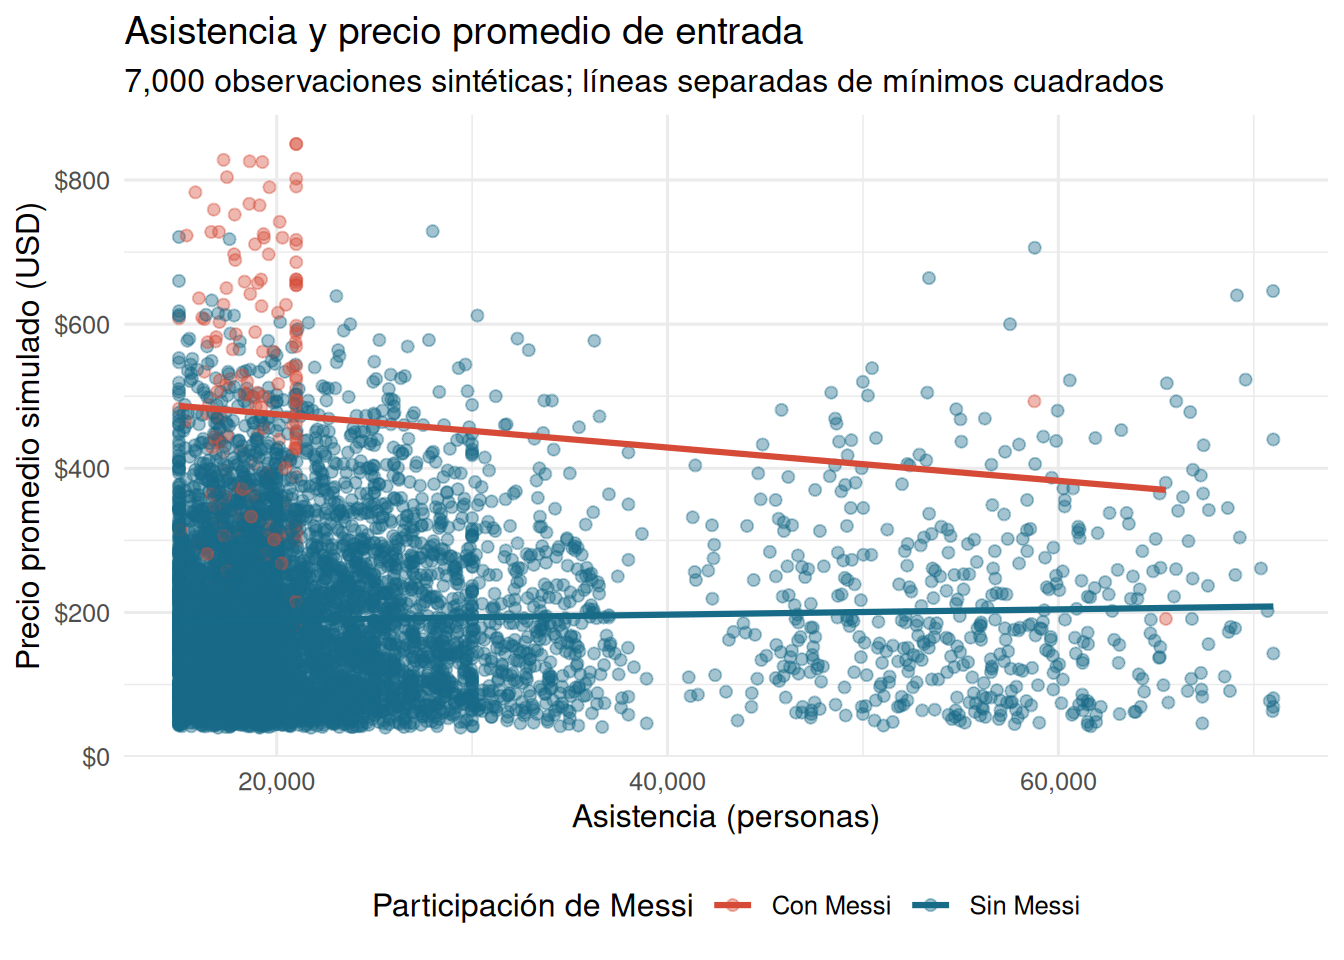
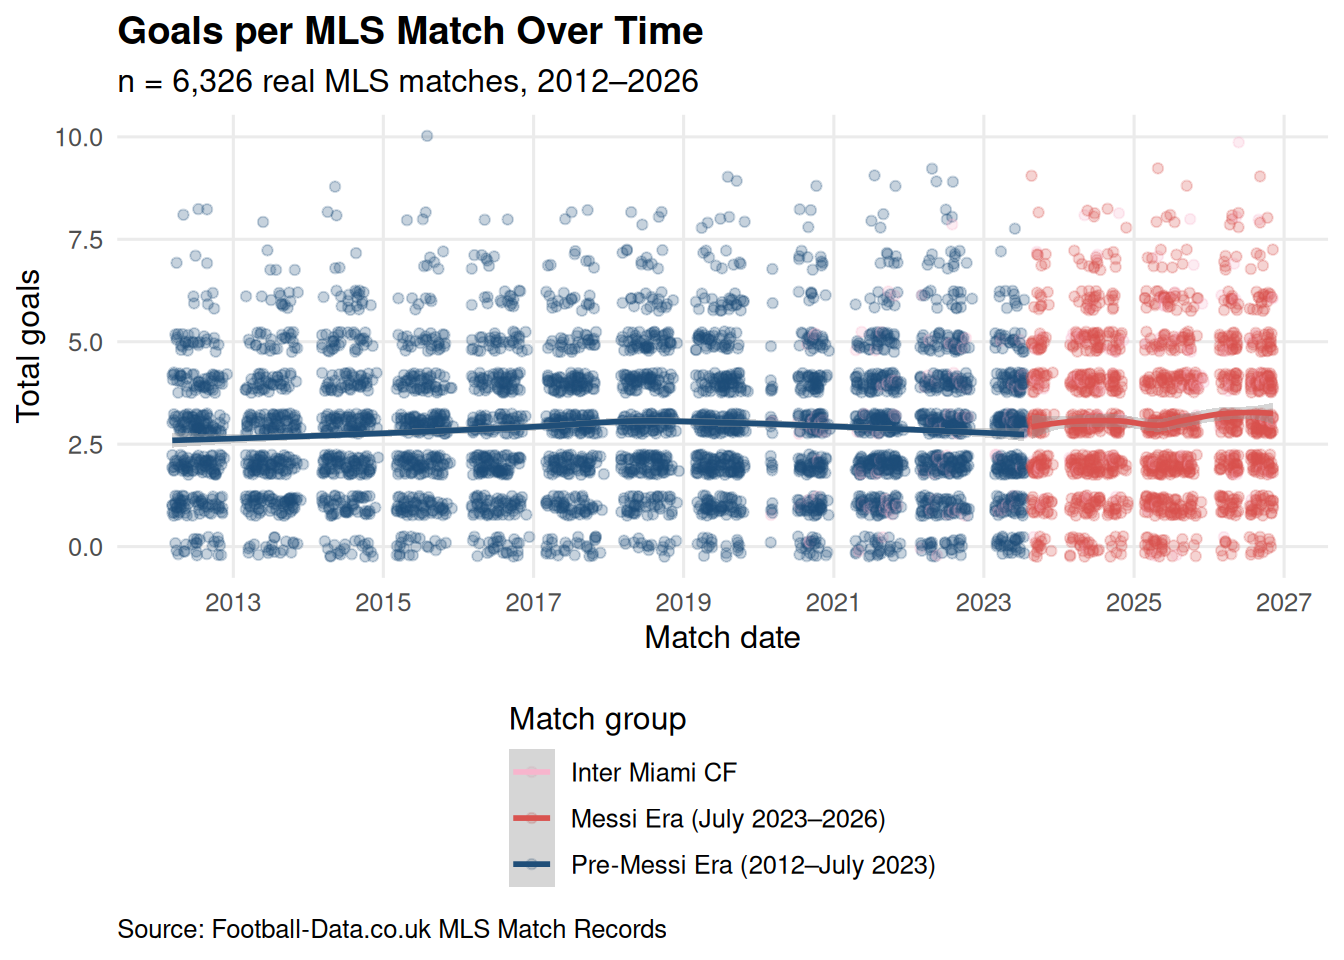
Built site for gh-pages

diff --git a/index.html b/index.html
@@ -6,9 +6,8 @@
 
 <meta name="viewport" content="width=device-width, initial-scale=1.0, user-scalable=yes">
 
-<meta name="author" content="Ángel Emilio Frías Arias">
 
-<title>. - MLS Transformation &amp; The Messi Impact (2023-2026)</title>
+<title>MLS Match Analysis - MLS Match Scoring Before and After Messi</title>
 <style>
 code{white-space: pre-wrap;}
 span.smallcaps{font-variant: small-caps;}
@@ -80,7 +79,7 @@ ul.task-list li input[type="checkbox"] {
       <div class="navbar-container container-fluid">
       <div class="navbar-brand-container mx-auto">
     <a class="navbar-brand" href="./index.html">
-    <span class="navbar-title">.</span>
+    <span class="navbar-title">MLS Match Analysis</span>
     </a>
   </div>
             <div id="quarto-search" class="" title="Search"></div>
@@ -109,39 +108,20 @@ ul.task-list li input[type="checkbox"] {
 <!-- sidebar -->
 <!-- margin-sidebar -->
     <div id="quarto-margin-sidebar" class="sidebar margin-sidebar">
-        <nav id="TOC" role="doc-toc" class="toc-active">
-    <h2 id="toc-title">On this page</h2>
-   
-  <ul>
-  <li><a href="#executive-summary" id="toc-executive-summary" class="nav-link active" data-scroll-target="#executive-summary">Executive summary</a></li>
-  <li><a href="#data-and-method" id="toc-data-and-method" class="nav-link" data-scroll-target="#data-and-method">Data and method</a></li>
-  <li><a href="#gráfico-1-asistencia-y-precio-de-entrada" id="toc-gráfico-1-asistencia-y-precio-de-entrada" class="nav-link" data-scroll-target="#gráfico-1-asistencia-y-precio-de-entrada">Gráfico 1: Asistencia y precio de entrada</a></li>
-  <li><a href="#gráfico-2-distribución-de-asistencia-por-temporada" id="toc-gráfico-2-distribución-de-asistencia-por-temporada" class="nav-link" data-scroll-target="#gráfico-2-distribución-de-asistencia-por-temporada">Gráfico 2: Distribución de asistencia por temporada</a></li>
-  <li><a href="#gráfico-3-recintos-capacidad-y-asistencia" id="toc-gráfico-3-recintos-capacidad-y-asistencia" class="nav-link" data-scroll-target="#gráfico-3-recintos-capacidad-y-asistencia">Gráfico 3: Recintos, capacidad y asistencia</a></li>
-  <li><a href="#gráfico-4-audiencia-y-alcance-de-season-pass" id="toc-gráfico-4-audiencia-y-alcance-de-season-pass" class="nav-link" data-scroll-target="#gráfico-4-audiencia-y-alcance-de-season-pass">Gráfico 4: Audiencia y alcance de Season Pass</a></li>
-  <li><a href="#synthesis-and-limitations" id="toc-synthesis-and-limitations" class="nav-link" data-scroll-target="#synthesis-and-limitations">Synthesis and limitations</a></li>
-  <li><a href="#selected-references" id="toc-selected-references" class="nav-link" data-scroll-target="#selected-references">Selected references</a></li>
-  </ul>
-</nav>
+        
     </div>
 <!-- main -->
 <main class="content" id="quarto-document-content">
 
 <header id="title-block-header" class="quarto-title-block default">
 <div class="quarto-title">
-<h1 class="title">MLS Transformation &amp; The Messi Impact (2023-2026)</h1>
+<h1 class="title">MLS Match Scoring Before and After Messi</h1>
 </div>
 
 
 
 <div class="quarto-title-meta">
 
-    <div>
-    <div class="quarto-title-meta-heading">Author</div>
-    <div class="quarto-title-meta-contents">
-             <p>Ángel Emilio Frías Arias </p>
-          </div>
-  </div>
     
   
     
@@ -152,31 +132,6 @@ ul.task-list li input[type="checkbox"] {
 </header>
 
 
-<section id="executive-summary" class="level1">
-<h1>Executive summary</h1>
-<p>Major League Soccer’s recent transformation combines the arrival of Lionel Messi at Inter Miami in July 2023 with changes that were already underway: expanding club markets, growing attendance, a global Apple distribution agreement, and increasing interest from commercial partners. Messi created an unusually visible demand shock for selected fixtures, but his arrival alone cannot explain league-wide growth. This report uses four complementary views to explore attendance, ticket prices, venue scale, and audience development across 2023-2026.</p>
-<p>The analysis uses a reproducible <strong>synthetic dataset of 7,000 match observations</strong>, not an official MLS match log. All simulated records, including Messi involvement, ticket prices, stadium attendance, and TV audiences, are explicitly illustrative. The 30-team roster reflects the league’s expansion, with San Diego FC entering the synthetic schedule in 2025. The 2026 season is modeled as a full season for comparability, not represented as final observed data.</p>
-</section>
-<section id="data-and-method" class="level1">
-<h1>Data and method</h1>
-<p>Each active team-season contributes observations, and a fixed random seed makes the dataset repeatable. Messi-involved games become possible after his July 2023 arrival and occur at a higher modeled rate in subsequent seasons. Venue relocations to Arrowhead and Gillette are represented as illustrative events; Atlanta’s Mercedes-Benz Stadium is represented as a regular large-venue context. Match-level TV viewership is simulated. Annual subscriber and global view totals in the final chart are scenario inputs and should not be mistaken for Apple’s unpublished audited totals.</p>
-<div class="cell">
-<div class="cell-output cell-output-stdout">
-<pre><code># A tibble: 4 × 5
-  Season `Simulated observations` `Mean attendance` `Mean ticket price`
-   &lt;int&gt; &lt;chr&gt;                    &lt;chr&gt;             &lt;chr&gt;              
-1   2023 1,740                    22,691            $199               
-2   2024 1,720                    23,014            $200               
-3   2025 1,770                    23,451            $190               
-4   2026 1,770                    23,605            $203               
-# ℹ 1 more variable: `Mean viewers per match (000s)` &lt;chr&gt;</code></pre>
-</div>
-</div>
-<p>The annual table is a scale check, not an official MLS attendance series. The synthetic rows are distributed across active team-season cells to avoid the common problem of a large random sample accidentally omitting a club or season. Every numeric value below is generated from the stated assumptions.</p>
-</section>
-<section id="gráfico-1-asistencia-y-precio-de-entrada" class="level1">
-<h1>Gráfico 1: Asistencia y precio de entrada</h1>
-<p>The main scatterplot tests whether the modeled match-level relationship between crowd size and average ticket price differs for games involving Messi. Each dot is one of the 7,000 synthetic observations; semi-transparency reduces overplotting while preserving dense regions. Separate linear trend lines summarize each category. Because ticket prices and attendance are both generated in the same model, the slopes are descriptive and must not be interpreted as a causal estimate of Messi’s effect.</p>
 <div class="cell">
 <div class="cell-output-display">
 <div>
@@ -186,71 +141,9 @@ ul.task-list li input[type="checkbox"] {
 </div>
 </div>
 </div>
-<p>Read the red series as a modeled high-demand scenario, not as evidence that every Messi match commanded the same price premium. In real ticket markets, averages vary with opponent, seat inventory, fees, resale activity, venue configuration, and when a ticket is purchased. A rigorous causal analysis would compare matched fixtures and use observed ticket transactions while controlling for those factors.</p>
-</section>
-<section id="gráfico-2-distribución-de-asistencia-por-temporada" class="level1">
-<h1>Gráfico 2: Distribución de asistencia por temporada</h1>
-<p>The second visualization puts the four annual distributions side by side in a vertical facet grid. Density curves reveal the shape and upper tail of attendance, while the jittered observations show where individual simulated matches fall. The 2023 panel includes a deliberately modeled Messi window beginning July 21, the date of his Inter Miami debut; it is therefore the clearest panel for seeing how a midseason shock can coexist with a pre-existing annual baseline. The 2024-2026 panels use a higher modeled share of Messi-involved matches.</p>
-<div class="cell">
-<div class="cell-output-display">
-<div>
-<figure class="figure">
-<p><img src="index_files/figure-html/unnamed-chunk-3-1.png" class="img-fluid figure-img" width="672"></p>
-</figure>
-</div>
-</div>
-</div>
-<p>The annual facets help separate distribution changes from isolated record crowds. They do not prove that the league-wide attendance baseline jumped because of Messi: the simulation intentionally raises the probability of high-attendance Messi-linked matches, while MLS attendance was already increasing before 2023. The July 2023 boundary also cautions against labeling the entire 2023 season “post-Messi.”</p>
-</section>
-<section id="gráfico-3-recintos-capacidad-y-asistencia" class="level1">
-<h1>Gráfico 3: Recintos, capacidad y asistencia</h1>
-<p>Venue capacity changes the interpretation of a raw attendance count. A 25,000-person crowd can fill a soccer-specific ground, while a similar crowd occupies only part of an NFL stadium. This violin-and-boxplot comparison shows match attendance by venue type; jittered points retain individual observations, and point size encodes the listed capacity. The three named markers identify selected simulated examples for Mercedes-Benz Stadium, Arrowhead, and Gillette, rather than claiming that a particular synthetic record is the historical match attendance.</p>
-<div class="cell">
-<div class="cell-output-display">
-<div>
-<figure class="figure">
-<p><img src="index_files/figure-html/unnamed-chunk-4-1.png" class="img-fluid figure-img" width="672"></p>
-</figure>
-</div>
-</div>
-</div>
-<p>Arrowhead and Gillette have hosted relocated high-profile matches with crowds reported above 72,000 and 65,000 respectively; Atlanta United’s Mercedes-Benz Stadium regularly demonstrates the league’s ability to draw very large crowds in a flexible NFL venue. Such fixtures are exceptional and should not be confused with ordinary soccer-stadium capacity or average attendance. The synthetic comparison emphasizes that capacity, utilization, and headcount answer different questions; the highlighted points are illustrative, not historical rows.</p>
-</section>
-<section id="gráfico-4-audiencia-y-alcance-de-season-pass" class="level1">
-<h1>Gráfico 4: Audiencia y alcance de Season Pass</h1>
-<p>MLS Season Pass changed the distribution model by putting league matches in a single global streaming product, with English- and Spanish-language options. Apple and MLS have not published a complete audited season-by-season subscriber series or global viewing totals. To avoid presenting private metrics as facts, this chart separates the simulated mean viewers per match from explicitly illustrative annual global-view and subscriber scenarios. Each metric receives its own facet and scale so unit differences remain visible.</p>
-<div class="cell">
-<div class="cell-output-display">
-<div>
-<figure class="figure">
-<p><img src="index_files/figure-html/unnamed-chunk-5-1.png" class="img-fluid figure-img" width="672"></p>
-</figure>
-</div>
-</div>
-</div>
-<p>The match-viewer series comes from the synthetic <code>tv_viewers_k</code> field; annual global views are an annualized scenario derived from those simulated match audiences, and the subscriber path is a separate illustrative assumption. Industry coverage has described Season Pass subscriber growth as more than doubling and estimates above two million, but those reports are not an audited public subscriber ledger. Spanish-language audiences have exceeded half for some Messi-era broadcasts, a meaningful signal of international reach but not a league-wide language share for every match.</p>
-</section>
-<section id="synthesis-and-limitations" class="level1">
-<h1>Synthesis and limitations</h1>
-<p>The four views tell a coherent but deliberately bounded story: Messi-linked matches are modeled with more demand, larger event venues can absorb exceptional crowds, annual distributions can shift without every match being a sellout, and global streaming reach matters even when precise subscription data remain private. MLS’s growth also reflects expansion, existing fan bases, stadium investment, media distribution, and the approaching 2026 FIFA World Cup. The World Cup creates an opportunity to convert temporary attention into long-term supporters, but it does not guarantee future attendance or revenue.</p>
-<ul>
-<li>The 7,000 rows are synthetic observations, not official MLS attendance, ticket, or viewing records.</li>
-<li>Match-level ticket prices, TV audiences, and Messi involvement are generated from assumptions; trend lines are descriptive and not causal estimates.</li>
-<li>Subscriber and global-view series are illustrative scenarios because comparable audited MLS Season Pass totals are not public.</li>
-<li>Venue capacity reflects modeled soccer configurations for some multipurpose stadiums. A listed stadium’s full event capacity is not necessarily the capacity used for a soccer match.</li>
-<li>The league had 29 clubs in 2023-2024 and 30 from San Diego FC’s 2025 entry; the synthetic roster accounts for that timing.</li>
-</ul>
-</section>
-<section id="selected-references" class="level1">
-<h1>Selected references</h1>
-<ul>
-<li><a href="https://www.mlssoccer.com/news/">MLS newsroom</a> provides league attendance announcements and match coverage.</li>
-<li><a href="https://www.apple.com/newsroom/">Apple Newsroom</a> provides Apple’s official announcements about MLS Season Pass and Lionel Messi.</li>
-<li><a href="https://www.fifa.com/en/tournaments/mens/worldcup/canadamexicousa2026">FIFA: 2026 World Cup</a> provides the tournament context.</li>
-</ul>
+<p>Match scoring rose modestly after July 21, 2023: average goals increased from 2.85 before the cutoff to 3.11 afterward. Draws remained about one quarter of matches (25.0% before and 25.7% after), and the average goal margin was nearly unchanged (1.31 versus 1.33). The records point to somewhat higher scoring, but not a clear shift in overall competitiveness. Since the cutoff, Inter Miami recorded 67 wins, 32 draws, and 24 losses in 123 matches, averaging 2.31 goals scored and 1.56 conceded per match. The source lists the club as “Inter Miami”; the chart highlights those matches in pink. These comparisons describe the records and do not establish that Messi caused league-wide changes.</p>
 
 
-</section>
 
 </main> <!-- /main -->
 <script id="quarto-html-after-body" type="application/javascript">

diff --git a/about.html b/about.html
@@ -7,7 +7,7 @@
 <meta name="viewport" content="width=device-width, initial-scale=1.0, user-scalable=yes">
 
 
-<title>. - About</title>
+<title>MLS Match Analysis - About This Site</title>
 <style>
 code{white-space: pre-wrap;}
 span.smallcaps{font-variant: small-caps;}
@@ -79,7 +79,7 @@ ul.task-list li input[type="checkbox"] {
       <div class="navbar-container container-fluid">
       <div class="navbar-brand-container mx-auto">
     <a class="navbar-brand" href="./index.html">
-    <span class="navbar-title">.</span>
+    <span class="navbar-title">MLS Match Analysis</span>
     </a>
   </div>
             <div id="quarto-search" class="" title="Search"></div>
@@ -115,7 +115,7 @@ ul.task-list li input[type="checkbox"] {
 
 <header id="title-block-header" class="quarto-title-block default">
 <div class="quarto-title">
-<h1 class="title">About</h1>
+<h1 class="title">About This Site</h1>
 </div>
 
 
@@ -132,7 +132,8 @@ ul.task-list li input[type="checkbox"] {
 </header>
 
 
-<p>About this site</p>
+<p>This site explores scoring patterns in Major League Soccer using match records from Football-Data.co.uk. It compares matches before and after Lionel Messi’s arrival in July 2023 and highlights Inter Miami’s recorded results.</p>
+<p>The comparisons are descriptive. They summarize match outcomes and do not establish that any one player caused league-wide changes.</p>
 
 
 
